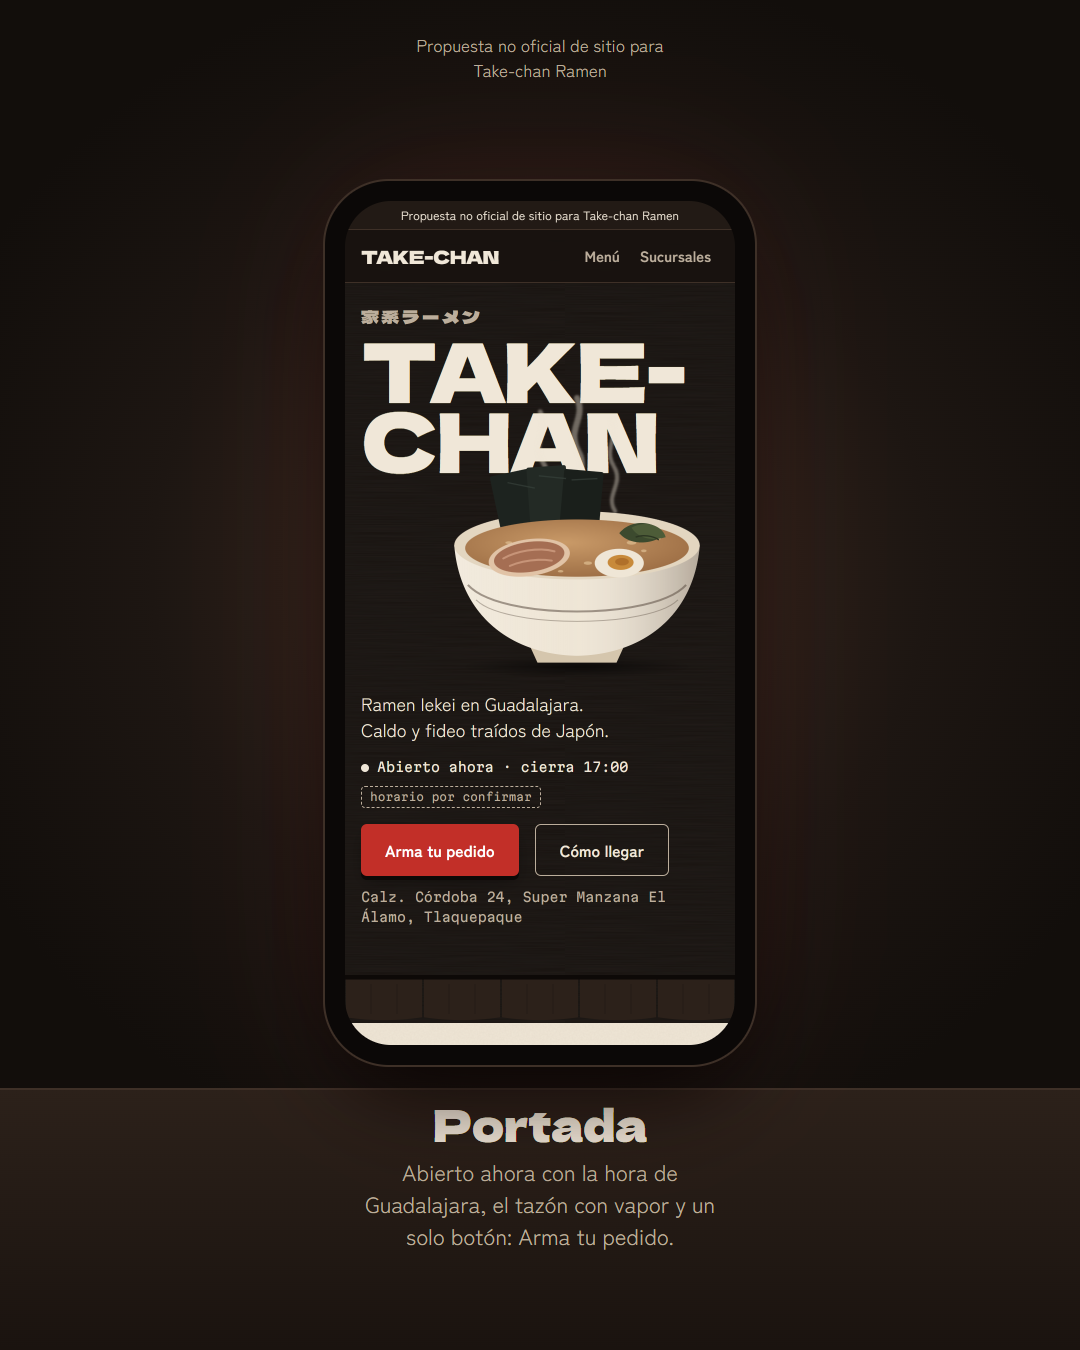
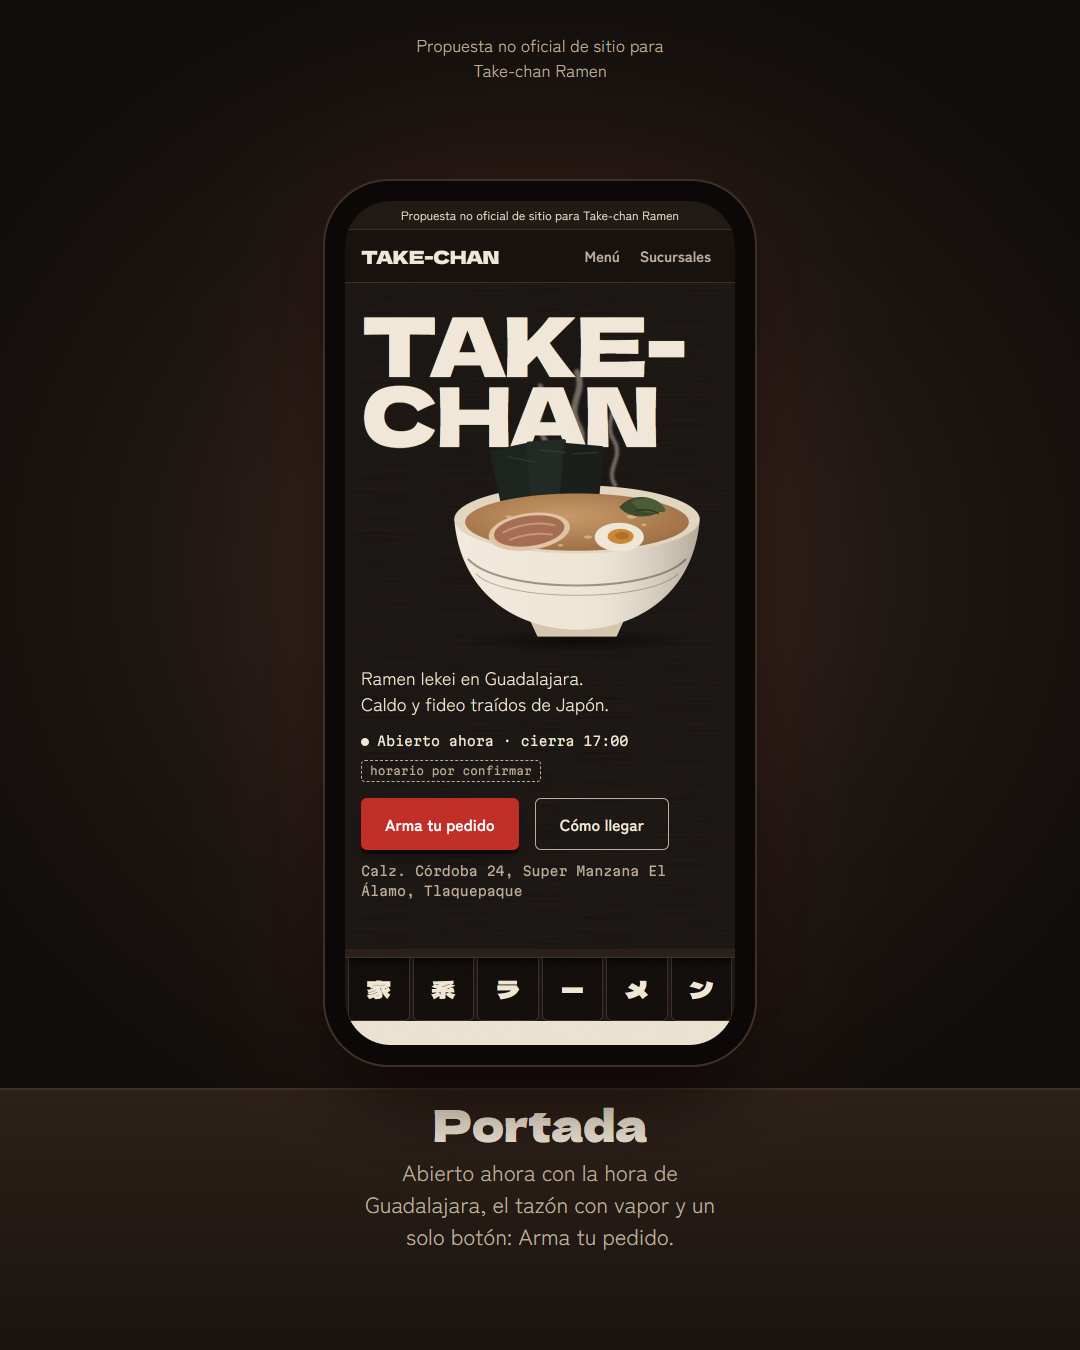
Arreglos de la revisión final: noren de tela con 家系ラーメン, horario por confirmar en el pie, sin eyebrow, teclas por definir y pestañas en celular

Changed region(s): [[0.3361, 0.2178, 0.6722, 0.6844], [0.3056, 0.7156, 0.6722, 0.7778]]

diff --git a/sitio/src/app/componentes/noren.ts b/sitio/src/app/componentes/noren.ts
@@ -1,33 +1,35 @@
 import { ChangeDetectionStrategy, Component } from '@angular/core';
 
-/** Cortina noren (のれん) como separador: barra de madera y paños con cortes. Decorativa. */
+/**
+ * Cortina noren (のれん) como separador: barra de madera y paños de tela oscura con 家系ラーメン,
+ * un carácter por paño, como en la entrada de una ramen-ya. Decorativa: el término ya está en el texto.
+ */
 @Component({
   selector: 'app-noren',
   changeDetection: ChangeDetectionStrategy.OnPush,
+  host: { 'aria-hidden': 'true' },
   template: `
-    <svg viewBox="0 0 1200 84" preserveAspectRatio="none" aria-hidden="true" focusable="false">
-      <rect x="0" y="0" width="1200" height="8" fill="var(--madera-canto)" />
-      @for (i of panos; track i) {
-        <path [attr.d]="pano(i)" fill="var(--madera-veta)" />
-        <path [attr.d]="pliegue(i)" stroke="var(--carbon)" stroke-width="2" opacity=".5" fill="none" />
-      }
-    </svg>
+    <div class="barra"></div>
+    <div class="panos" lang="ja">
+      @for (c of letras; track $index) { <span class="pano">{{ c }}</span> }
+    </div>
   `,
   styles: `
-    :host { display: block; width: 100%; height: clamp(48px, 7vw, 84px); }
-    svg { width: 100%; height: 100%; }
+    :host { display: block; width: 100%; overflow: hidden; }
+    .barra { height: 8px; background: var(--madera-veta); box-shadow: 0 1px 0 var(--borde), 0 4px 8px -2px rgba(0, 0, 0, .6); position: relative; z-index: 1; }
+    .panos { display: grid; grid-template-columns: repeat(6, 1fr); gap: 3px; padding-inline: 3px; }
+    .pano {
+      display: grid; place-items: center;
+      height: clamp(64px, 9vw, 112px);
+      background: var(--madera-canto) var(--fibra);
+      border: 1px solid var(--borde); border-top: 0;
+      border-radius: 0 0 6px 6px;
+      font: 400 clamp(1.5rem, 3.6vw, 3rem)/1 var(--display);
+      color: var(--washi);
+      box-shadow: inset 0 10px 12px -8px rgba(0, 0, 0, .8);
+    }
   `,
 })
 export class Noren {
-  protected readonly panos = [0, 1, 2, 3, 4];
-  private readonly ancho = 1200 / 5;
-  protected pano(i: number) {
-    const x = i * this.ancho + 3;
-    const w = this.ancho - 6;
-    return `M${x} 8h${w}v66q${-w / 2} 10 ${-w} 0z`;
-  }
-  protected pliegue(i: number) {
-    const x = i * this.ancho + this.ancho / 2;
-    return `M${x - 40} 16v52M${x + 40} 16v52`;
-  }
+  protected readonly letras = [...'家系ラーメン'];
 }

diff --git a/sitio/src/app/paginas/menu/menu.ts b/sitio/src/app/paginas/menu/menu.ts
@@ -1,4 +1,4 @@
-import { ChangeDetectionStrategy, Component, DestroyRef, ElementRef, PLATFORM_ID, afterNextRender, inject, signal } from '@angular/core';
+import { ChangeDetectionStrategy, Component, DestroyRef, ElementRef, PLATFORM_ID, afterNextRender, effect, inject, signal } from '@angular/core';
 import { isPlatformBrowser } from '@angular/common';
 import { ActivatedRoute } from '@angular/router';
 import { MENU, SUCURSALES, direccionCorta, pesos } from '../../servicios/datos';
@@ -40,6 +40,14 @@ export class Menu {
     const ruta = inject(ActivatedRoute);
     const destruir = inject(DestroyRef);
     if (!isPlatformBrowser(inject(PLATFORM_ID))) return;
+    // En celular el índice es horizontal: la pestaña activa se desliza a la vista sin mover la página.
+    effect(() => {
+      const id = this.activa();
+      const lista = this.host.nativeElement.querySelector<HTMLElement>('.indice ul');
+      const a = lista?.querySelector<HTMLElement>(`a[href$="#cat-${id}"]`);
+      if (!lista || !a || lista.scrollWidth <= lista.clientWidth) return;
+      lista.scrollTo({ left: a.offsetLeft - lista.clientWidth / 2 + a.offsetWidth / 2, behavior: 'smooth' });
+    });
     afterNextRender(() => {
       const id = ruta.snapshot.queryParamMap.get('ramen');
       if (id && MENU.categorias[0].items.some((p) => p.id === id && !p.hueco) && this.pedido.cantidad(id) === 0) this.pedido.sumar(id);

diff --git a/sitio/src/app/paginas/inicio/inicio.css b/sitio/src/app/paginas/inicio/inicio.css
@@ -2,9 +2,8 @@
 .heroe { padding-block: var(--e-4) var(--e-6); overflow-x: clip; }
 .heroe-rejilla {
   display: grid;
-  grid-template-areas: 'ja' 'titulo' 'tazon' 'texto';
+  grid-template-areas: 'titulo' 'tazon' 'texto';
 }
-.ja { grid-area: ja; font: 400 1.125rem/1 var(--display); letter-spacing: .12em; color: var(--texto-tenue); margin-bottom: var(--e-2); }
 .gigante {
   grid-area: titulo; position: relative; z-index: 0;
   font: 400 clamp(3.5rem, 21vw, 7rem)/.86 var(--display);
@@ -25,7 +24,7 @@
   .heroe { padding-block: var(--e-6) var(--e-8); }
   .heroe-rejilla {
     grid-template-columns: minmax(0, 1fr) minmax(0, 1fr);
-    grid-template-areas: 'ja ja' 'titulo titulo' 'texto tazon';
+    grid-template-areas: 'titulo titulo' 'texto tazon';
     column-gap: var(--e-6);
   }
   .heroe .envoltura { max-width: 96rem; }

diff --git a/sitio/src/app/paginas/menu/menu.html b/sitio/src/app/paginas/menu/menu.html
@@ -29,8 +29,8 @@
           @for (p of c.items; track p.id) {
             @if (p.hueco) {
               <button type="button" class="tecla apagada" disabled>
-                <span class="nombre">{{ p.nombre }}</span>
-                <span class="sub">por definir con el negocio</span>
+                <span class="nombre">Por definir</span>
+                <span class="sub">{{ p.nombre }}</span>
               </button>
             } @else {
               <button type="button" class="tecla" [class.elegida]="pedido.cantidad(p.id) > 0" [class.pulsada]="pulsada() === p.id"

diff --git a/sitio/src/app/componentes/pie.ts b/sitio/src/app/componentes/pie.ts
@@ -27,6 +27,7 @@ import { Noren } from './noren';
             <p class="t-dato">{{ direccion(s) }}</p>
             @if (s.direccion.referencia) { <p class="t-dato tenue">{{ s.direccion.referencia }}</p> }
             <p class="t-dato">{{ horario(s) }}</p>
+            @if (!s.horario.confirmado) { <p><span class="por-confirmar">horario por confirmar</span></p> }
             <p><a class="enlace" [href]="s.mapa" target="_blank" rel="noopener">Abrir en Google Maps<span class="solo-lector"> (se abre en otra pestaña)</span></a></p>
           </div>
         }

diff --git a/sitio/src/app/paginas/inicio/inicio.html b/sitio/src/app/paginas/inicio/inicio.html
@@ -1,6 +1,5 @@
 <section class="heroe" aria-labelledby="heroe-titulo">
   <div class="envoltura heroe-rejilla">
-    <p class="ja" lang="ja">家系ラーメン</p>
     <h1 id="heroe-titulo" class="gigante"><span>TAKE-</span><span>CHAN</span><span class="solo-lector"> Ramen</span></h1>
     <app-tazon class="heroe-tazon" [vapor]="true" etiqueta="Ilustración de un tazón de ramen Iekei con vapor" />
     <div class="heroe-texto">
